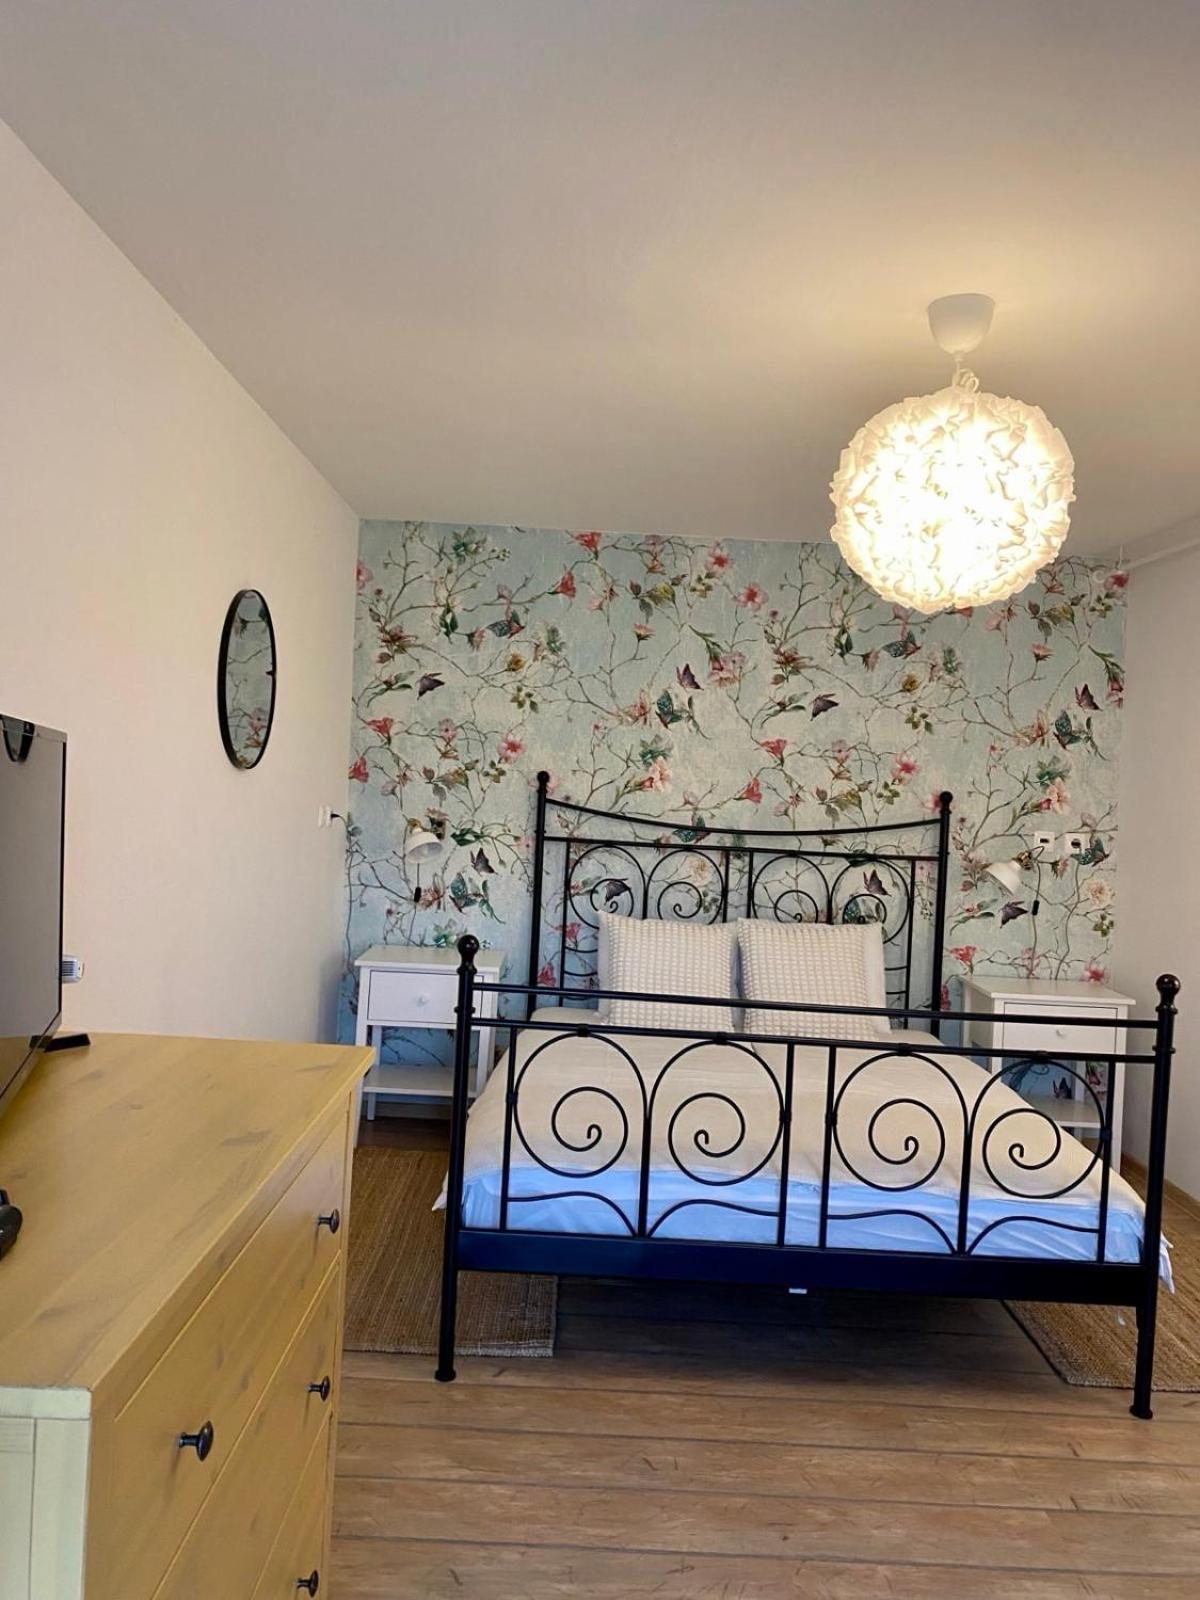
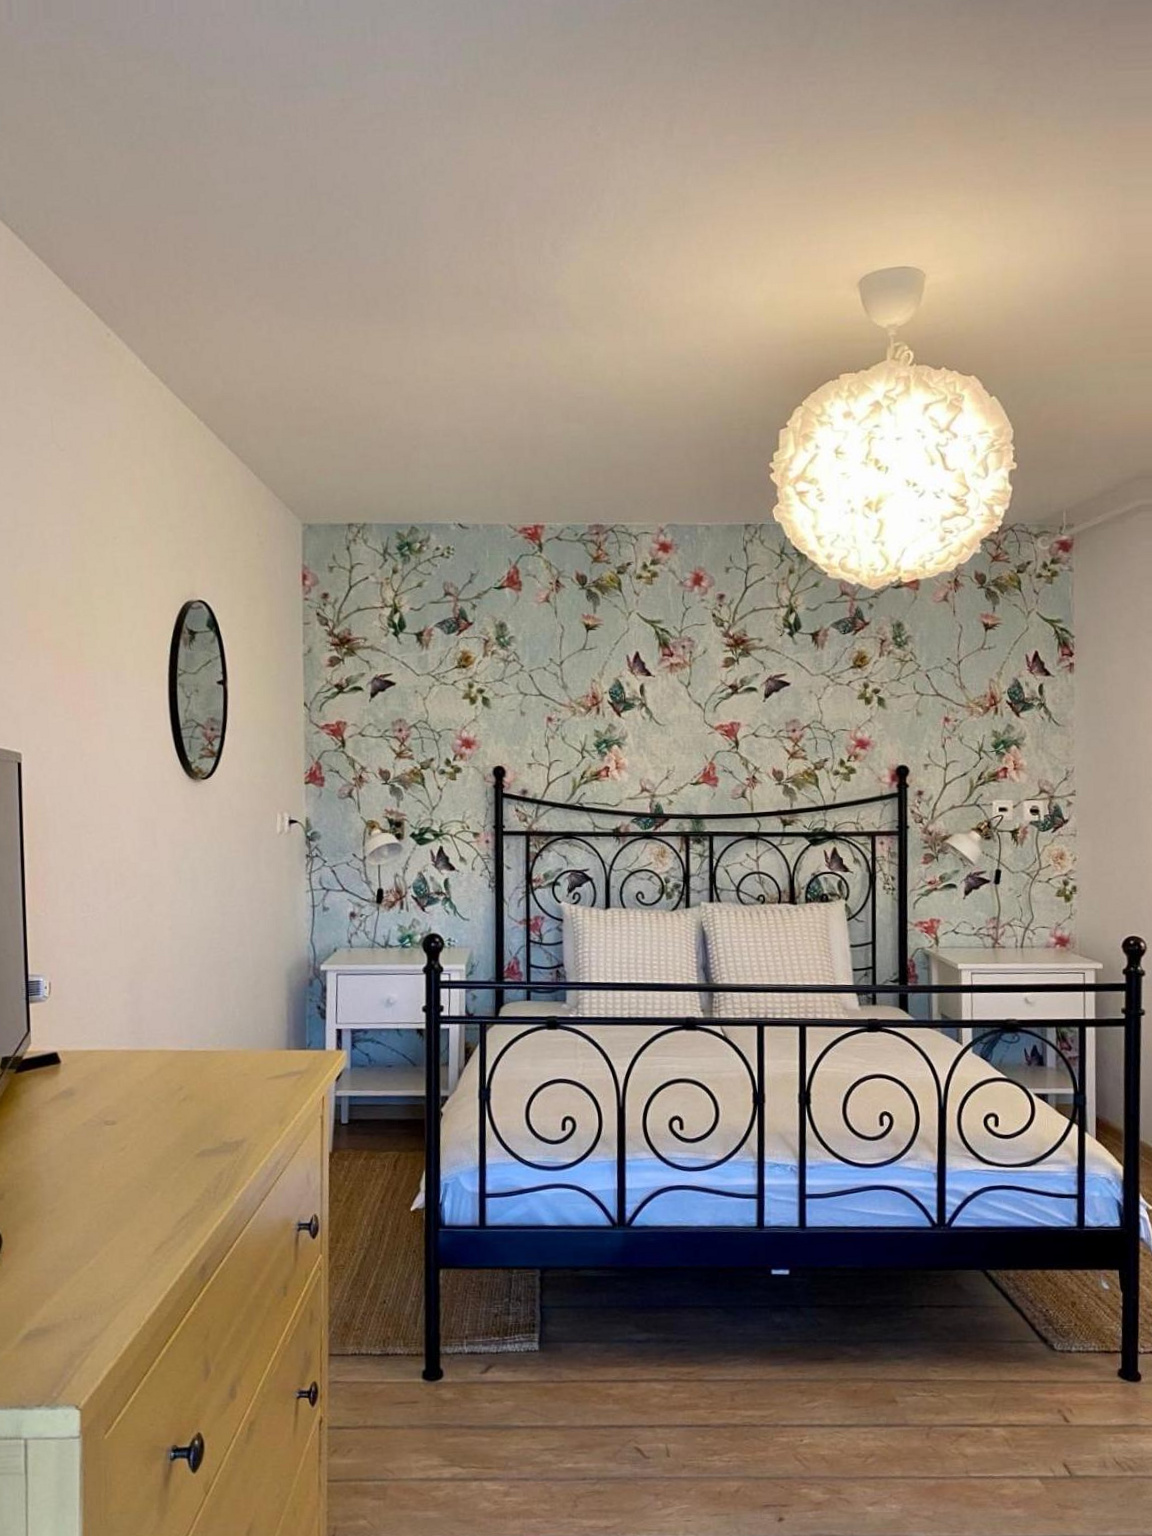
Straighten Studio 2 cover photo; drop spaces intro text
- 880633183.jpg rotated 3° to level the horizon, right bed post kept
- Remove "Two studios for two…" text (EN/SL)

diff --git a/README.md b/README.md
@@ -8,7 +8,7 @@ Features carried over from `rose-in-winter` and `apartments-bassanese`: apartmen
 
 - `.data/property.json` and `.data/property.sl.json` (Slovenian holds translated fields only).
 - `.data/site.json`: `site.preview: true` → noindex, robots disallow, no sitemap. Set `site.url` (or `SITE_URL`) before publishing.
-- Photos: 31 higher-resolution versions of the same captured Booking photo IDs (up to 3000px), with unchanged gallery assignments. Responsive WebP uses quality 85; full-size lightbox images use quality 90. Local download provenance: `data/runs/apartments-olga/photo-upgrade.json` at the Izba root.
+- Photos: 31 higher-resolution versions of the same captured Booking photo IDs (up to 3000px), with unchanged gallery assignments. `880633183.jpg` (Studio 2 cover) is straightened by 3° and cropped to 1152×1536. Responsive WebP uses quality 85; full-size lightbox images use quality 90. Local download provenance: `data/runs/apartments-olga/photo-upgrade.json` at the Izba root.
 - Sources: Booking capture `data/snapshots/388fb7b0e80a4ca0939b0bb027096737` (13 Oct 2026) and the historical spec. See `provenance` in `property.json`.
 
 ## Open items before publishing
